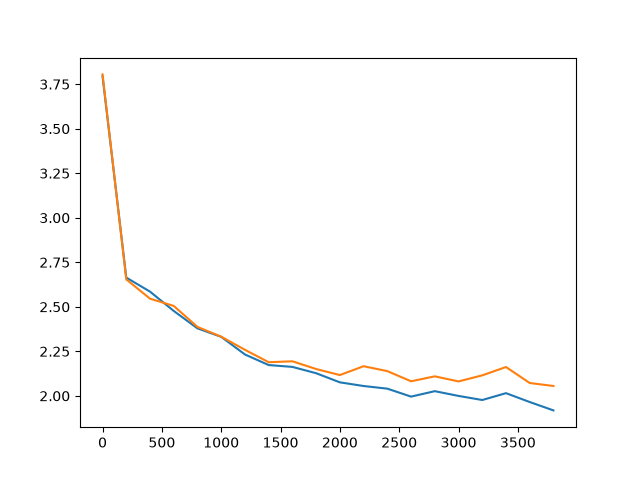
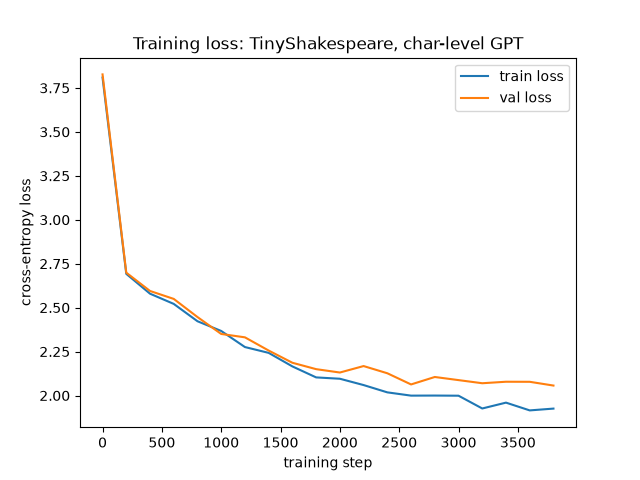
regenerate loss curve with a title -- the original had none
test_training.py's plot never called plt.title()/xlabel()/ylabel(),
and passed labels to plot() without ever calling plt.legend(), so
none of that text actually rendered. Fixed and retrained from scratch
to produce an honest, correctly-labeled artifact rather than editing
metadata onto the old image after the fact.

diff --git a/tests/test_training.py b/tests/test_training.py
@@ -6,7 +6,7 @@ wiring is broken -- this is the fastest sanity check before any real training ru
 
 import torch
 
-from llmcore.data import get_batch, load_tokens, train_val_split
+from llmcore.data import load_tokens, train_val_split
 from llmcore.model import GPT, GPTConfig
 from llmcore.tokenizer import CharTokenizer
 from llmcore.train import train
@@ -19,7 +19,6 @@ train_data, val_data = train_val_split(data)
 
 cfg = GPTConfig(vocab_size=tok.vocab_size, block_size=64, n_embd=128, n_head=4, n_layer=4)
 model = GPT(cfg)
-#optimizer = torch.optim.AdamW(model.parameters(), lr=3e-3)
 
 history = train(model, train_data, val_data, steps=4000, lr=3e-3, batch_size=8, device="cpu")
 
@@ -27,8 +26,13 @@ step = [h[0] for h in history]
 train_loss = [h[1] for h in history]
 val_loss = [h[2] for h in history]
 
-plt.plot(step, train_loss, label="train_loss")
-plt.plot(step, val_loss, label="val_loss")
+plt.figure()
+plt.plot(step, train_loss, label="train loss")
+plt.plot(step, val_loss, label="val loss")
+plt.xlabel("training step")
+plt.ylabel("cross-entropy loss")
+plt.title("Training loss: TinyShakespeare, char-level GPT")
+plt.legend()
 plt.savefig("loss_curve.png")
 
 idx = torch.tensor([[tok.encode("T")[0]]])
@@ -36,12 +40,3 @@ out = generate_naive(model, idx, max_new_tokens=200)
 decoded = tok.decode(out[0].tolist())
 
 print(decoded)
-# x, y = get_batch(train_data, block_size=32, batch_size=8)   # ONE fixed batch, sampled once
-
-# for step in range(300):
-#     logits, loss = model(x, targets=y)   # same x, y every single iteration
-#     optimizer.zero_grad()
-#     loss.backward()
-#     optimizer.step()
-#     if step % 50 == 0:
-#         print(step, loss.item())
